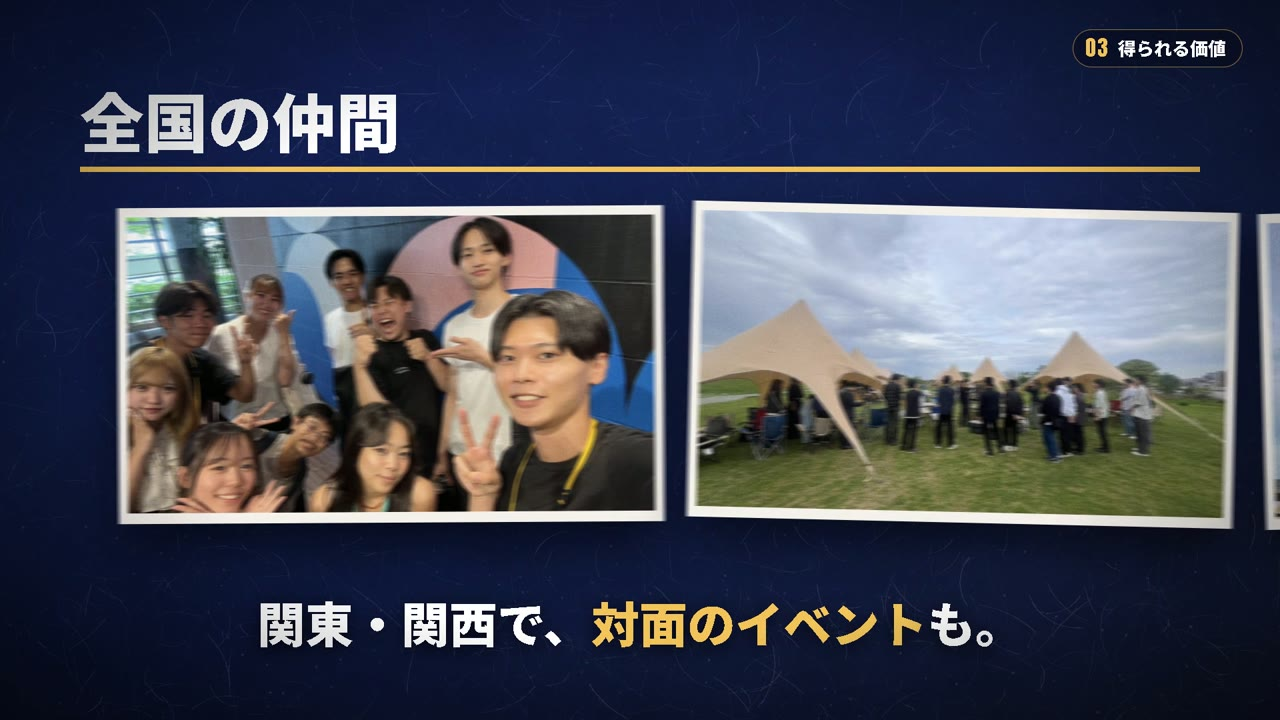
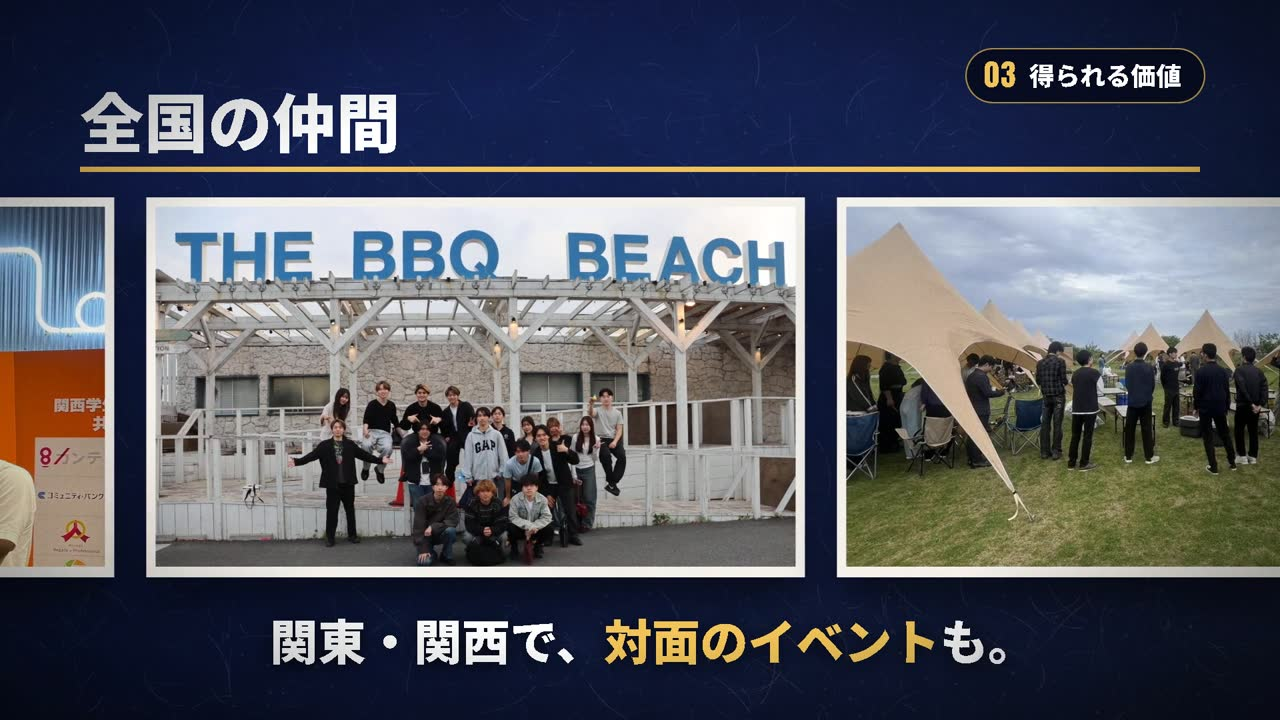
視聴ページの動画を v14（TfYGWG_JnXs・236秒・語り＝Gemini Puck）に差し替え。再生ボタンの長さ 3:41→3:56、章ボタンを v14 の場面の切り替わりの少し後へ（0:58／1:08／1:34／2:22／2:52・data-start 58.3／68.1／94.6／143／172.6）、表紙を v14 の 2:11 の場面に（v11 の表紙は v13 で外した写真の場面だったため）。守屋さん 11/3「v14 を上げる」「公開して」・Adness 42f67490

diff --git a/watch/index.html b/watch/index.html
@@ -46,23 +46,23 @@
     </div>
 
     <div id="watch-area" hidden>
-      <!-- 表紙（公開中の動画 v11 の 2:00 の場面＝活動写真と「関東・関西で、対面のイベントも。」）＋大きな再生ボタン。
+      <!-- 表紙（公開中の動画 v14 の 2:11 の場面＝BBQ の集合写真と「関東・関西で、対面のイベントも。」・11/3）＋大きな再生ボタン。
            プレーヤーはページを開いた時点で表紙の下に作っておき、表紙を押した操作の中で再生する（iPhone は押した操作の中でないと再生させない・10/23 守屋の実機で確認） -->
       <div class="player facade" id="player-box">
         <img class="poster" src="lp/video-poster.jpg" alt="紹介動画の一場面。活動写真が並んでいる">
         <button type="button" class="play-btn" aria-label="紹介動画を再生する（約4分）"><span class="tri" aria-hidden="true"></span></button>
-        <span class="play-label" aria-hidden="true">タップで再生（3:41）</span>
+        <span class="play-label" aria-hidden="true">タップで再生（3:56）</span>
         <span class="deadline" id="countdown">視聴期限 <b id="cd-value">--:--:--</b></span>
         <div id="player"></div>
       </div>
       <p class="play-hint" id="play-hint" hidden>▶ をもう一度押してください</p>
       <div class="bar" aria-hidden="true"><i id="bar-fill"></i></div>
       <ol class="chapters" aria-label="この動画でわかること（押すとその場面から再生）">
-        <li><button type="button" data-start="55"><b>0:55</b>RVSSとは</button></li>
-        <li><button type="button" data-start="64"><b>1:04</b>なぜ、いま「挑戦者」なのか</button></li>
-        <li><button type="button" data-start="90"><b>1:30</b>得られる価値</button></li>
-        <li><button type="button" data-start="132"><b>2:12</b>参加のかたち</button></li>
-        <li><button type="button" data-start="159"><b>2:39</b>求める人物像</button></li>
+        <li><button type="button" data-start="58.3"><b>0:58</b>RVSSとは</button></li>
+        <li><button type="button" data-start="68.1"><b>1:08</b>なぜ、いま「挑戦者」なのか</button></li>
+        <li><button type="button" data-start="94.6"><b>1:34</b>得られる価値</button></li>
+        <li><button type="button" data-start="143"><b>2:22</b>参加のかたち</button></li>
+        <li><button type="button" data-start="172.6"><b>2:52</b>求める人物像</button></li>
       </ol>
       <div id="status" class="status" hidden></div>
     </div>

diff --git a/config.js b/config.js
@@ -57,7 +57,7 @@ window.RVSS_CONFIG = {
 
   // 視聴LIFFに出す動画。YouTube の限定公開ID。
   // 入るまでは watch ページが「準備中」を出して止まる（空のプレイヤーを見せない）。
-  YOUTUBE_ID: 'requ59GNGLQ',   // 2026-10-29 オンデマンド v11（動く映像＋AI音声・221秒・RVSS・限定公開・埋め込み可・守屋 10/28「許可出る前に変更してOK」）。旧 v9＝ZhhdgT-HhlY（HERO’ZZ除去版・349秒）／ZsRlQcT1Efw／v8＝lmkSz3wLtSE／v5＝yrXmfHOhBwo
+  YOUTUBE_ID: 'TfYGWG_JnXs',   // 2026-11-03 オンデマンド v14（語り＝Gemini Puck・236秒・RVSS・限定公開・埋め込み可・守屋 11/3「v14 を上げる」）。旧 v11＝requ59GNGLQ（10/29〜11/3・221秒）／v9＝ZhhdgT-HhlY（HERO’ZZ除去版・349秒）／ZsRlQcT1Efw／v8＝lmkSz3wLtSE／v5＝yrXmfHOhBwo
 
   // 視聴期限（時間）。決定10（2026-08-25）＝48時間。
   WATCH_DEADLINE_HOURS: 48,
